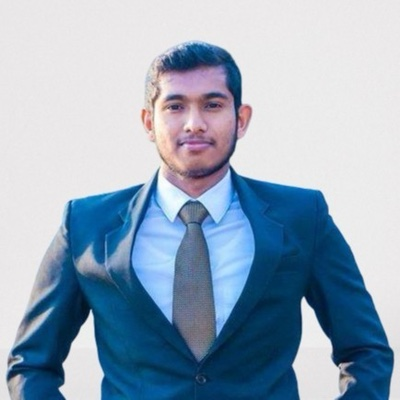
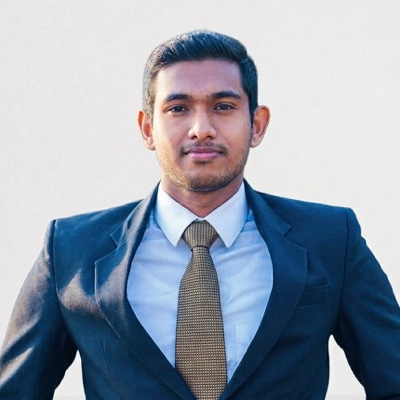
Change profile image

diff --git a/_layouts/home.html b/_layouts/home.html
@@ -6,8 +6,8 @@ layout: default
     <div class="hero-bg" aria-hidden="true"></div>
     <div class="inner hero-inner">
       <picture>
-        <source type="image/webp" srcset="{{ '/assets/images/profile-400.webp' | relative_url }} 400w, {{ '/assets/images/profile-800.webp' | relative_url }} 800w, {{ '/assets/images/profile-1200.webp' | relative_url }} 1200w" sizes="(max-width:1180px) 280px, 380px">
-        <img src="{{ '/assets/images/profile-800.jpg' | relative_url }}" srcset="{{ '/assets/images/profile-400.jpg' | relative_url }} 400w, {{ '/assets/images/profile-800.jpg' | relative_url }} 800w, {{ '/assets/images/profile-1200.jpg' | relative_url }} 1200w" sizes="(max-width:1180px) 280px, 380px" alt="Milanda Wijekoon" class="hero-photo" width="380" height="380" fetchpriority="high" decoding="async">
+        <source type="image/webp" srcset="{{ '/assets/images/profile-400.webp' | relative_url }} 400w, {{ '/assets/images/profile-800.webp' | relative_url }} 800w, {{ '/assets/images/profile-860.webp' | relative_url }} 860w" sizes="(max-width:1180px) 280px, 380px">
+        <img src="{{ '/assets/images/profile-800.jpg' | relative_url }}" srcset="{{ '/assets/images/profile-400.jpg' | relative_url }} 400w, {{ '/assets/images/profile-800.jpg' | relative_url }} 800w, {{ '/assets/images/profile-860.jpg' | relative_url }} 860w" sizes="(max-width:1180px) 280px, 380px" alt="Milanda Wijekoon" class="hero-photo" width="380" height="380" fetchpriority="high" decoding="async">
       </picture>
       <div class="hero-content">
         <h1 class="hero-tagline">Milanda Wijekoon</h1>

diff --git a/_layouts/default.html b/_layouts/default.html
@@ -11,7 +11,7 @@
 <link rel="icon" type="image/png" sizes="32x32" href="{{ '/assets/images/favicon-32.png' | relative_url }}" />
 <link rel="icon" type="image/png" sizes="16x16" href="{{ '/assets/images/favicon-16.png' | relative_url }}" />
 <link rel="apple-touch-icon" sizes="180x180" href="{{ '/assets/images/apple-touch-icon.png' | relative_url }}" />
-{% if page.layout == "home" %}<link rel="preload" as="image" type="image/webp" imagesrcset="{{ '/assets/images/profile-400.webp' | relative_url }} 400w, {{ '/assets/images/profile-800.webp' | relative_url }} 800w, {{ '/assets/images/profile-1200.webp' | relative_url }} 1200w" imagesizes="(max-width:1180px) 280px, 380px" fetchpriority="high" />{% endif %}
+{% if page.layout == "home" %}<link rel="preload" as="image" type="image/webp" imagesrcset="{{ '/assets/images/profile-400.webp' | relative_url }} 400w, {{ '/assets/images/profile-800.webp' | relative_url }} 800w, {{ '/assets/images/profile-860.webp' | relative_url }} 860w" imagesizes="(max-width:1180px) 280px, 380px" fetchpriority="high" />{% endif %}
 <link rel="preconnect" href="https://fonts.googleapis.com" />
 <link rel="preconnect" href="https://fonts.gstatic.com" crossorigin />
 <link href="https://fonts.googleapis.com/css2?family=Hanken+Grotesk:wght@400;500;600;700;800;900&family=JetBrains+Mono:wght@400;500;600&display=swap" rel="stylesheet" />

diff --git a/about.md b/about.md
@@ -1,6 +1,6 @@
 ---
 layout: page
-title: Software engineer and technical lead
+title: Senior Software Engineer / Tech Lead
 short_title: About Milanda Wijekoon
 permalink: /about/
 eyebrow: About
